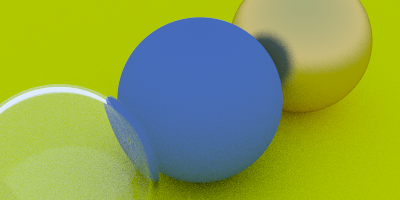
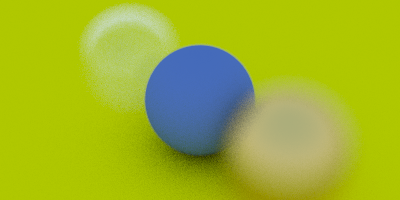
defocus blur

diff --git a/camera.h b/camera.h
@@ -2,6 +2,7 @@
 
 #include "ray.h"
 #include <cmath>
+#include <random>
 
 struct Camera
 {
@@ -10,15 +11,9 @@ struct Camera
 	typedef r3::Posef Pose;
 
 	// symmetric fov
-	Camera( float fovy_deg, float aspect )
+	Camera() : gen( 0 ), dis( -1, 1 )
 	{
-		SetFov( fovy_deg, aspect );
-	}
-
-	Camera( float fovy_deg, float aspect, const V3& from, const V3& to, const V3& up )
-	{
-		SetFov( fovy_deg, aspect );
-		SetPose( from, to, up );
+		SetFov( 60, 1 );
 	}
 
 	void SetFov( float fovy_deg, float aspect )
@@ -33,14 +28,35 @@ struct Camera
 		pose.SetValue( from, to, up );
 	}
 
+	void SetFocus( float aperture, float focal_distance )
+	{
+		lens_radius = aperture / 2;
+		focal_dist = focal_distance;
+	}
+
 	Ray GetRay( const V2& uv )
 	{
-		V3 dir( r3::Lerp( ll.x, ur.x, uv.x ), r3::Lerp( ll.y, ur.y, uv.y ), -1 );
-		pose.r.MultVec( dir );
-		return Ray( pose.t, dir );
+		V3 o = PointOnLens();
+		V3 target = V3( r3::Lerp( ll.x, ur.x, uv.x ), r3::Lerp( ll.y, ur.y, uv.y ), -1 ) * focal_dist;
+		return Ray( pose.t + pose.r.Rotate( o ), pose.r.Rotate( target - o ) );
+	}
+
+	V3 PointOnLens() const
+	{
+		V2 p( dis( gen ), dis( gen ) );
+		while ( p.LengthSquared() > 1 )
+		{
+			p = V2( dis( gen ), dis( gen ) );
+		}
+		p *= lens_radius;
+		return V3( p.x, p.y, 0 );
 	}
 
 	V2 ll;
 	V2 ur;
 	Pose pose;
+	float lens_radius = 0;
+	float focal_dist = 1;
+	mutable std::mt19937 gen;
+	mutable std::uniform_real_distribution<> dis;
 };

diff --git a/rt.cpp b/rt.cpp
@@ -117,7 +117,13 @@ int main( int argc, char** argv )
 	collection.hitables.push_back( &diel_yellow_sphere );
 	collection.hitables.push_back( &diel_yellow_sphere2 );
 
-	Camera cam( 20, float( w ) / float( h ), Vec3f( -2, 2, 1 ), Vec3f( 0, 0, -1 ), Vec3f( 0, 1, 0 ) );
+	Camera cam;
+	cam.SetFov( 20, float( w ) / float( h ) );
+	Vec3f from( 3, 3, 2 );
+	Vec3f to( 0, 0, -1 );
+	Vec3f up( 0, 1, 0 );
+	cam.SetPose( from, to, up );
+	cam.SetFocus( 2.0f, ( to - from ).Length() );
 
 	std::mt19937 gen( 0 );
 	std::uniform_real_distribution<> dis( 0.0, 1.0 );

diff --git a/linear.h b/linear.h
@@ -2105,6 +2105,13 @@ template <typename T> class Quaternion
 		MultVec( Vec3<T>( src_and_dst ), src_and_dst );
 	}
 
+	Vec3<T> Rotate( const Vec3<T>& v ) const
+	{
+		Vec3<T> ret;
+		( *this ).MultVec( v, ret );
+		return ret;
+	}
+
 	void ScaleAngle( T scaleFactor )
 	{
 		Vec3<T> axis;
